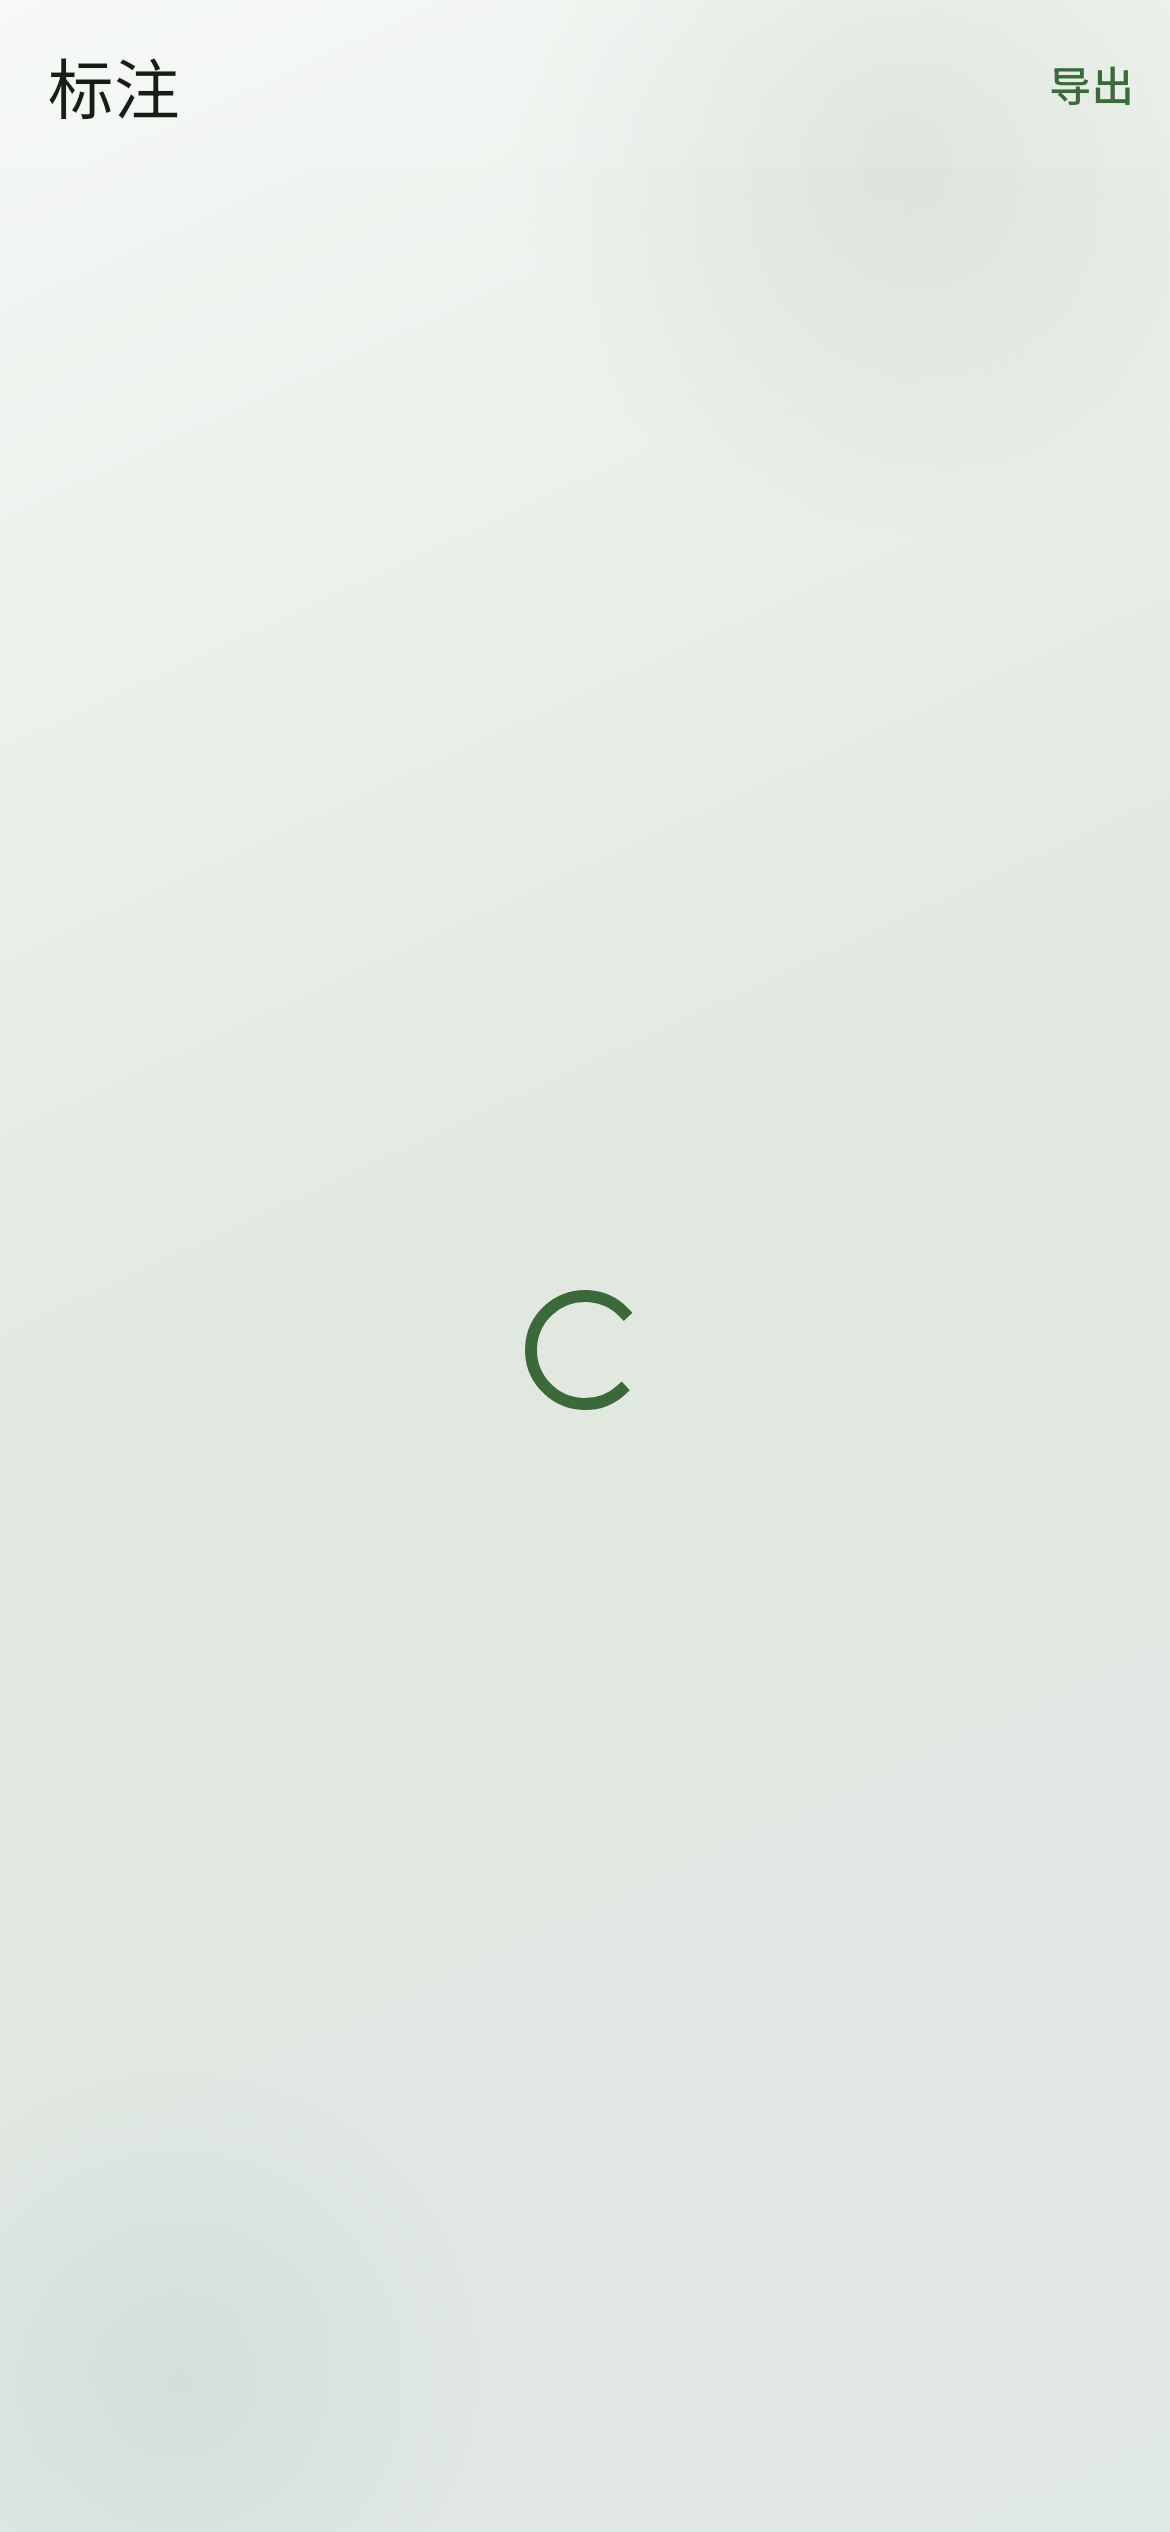
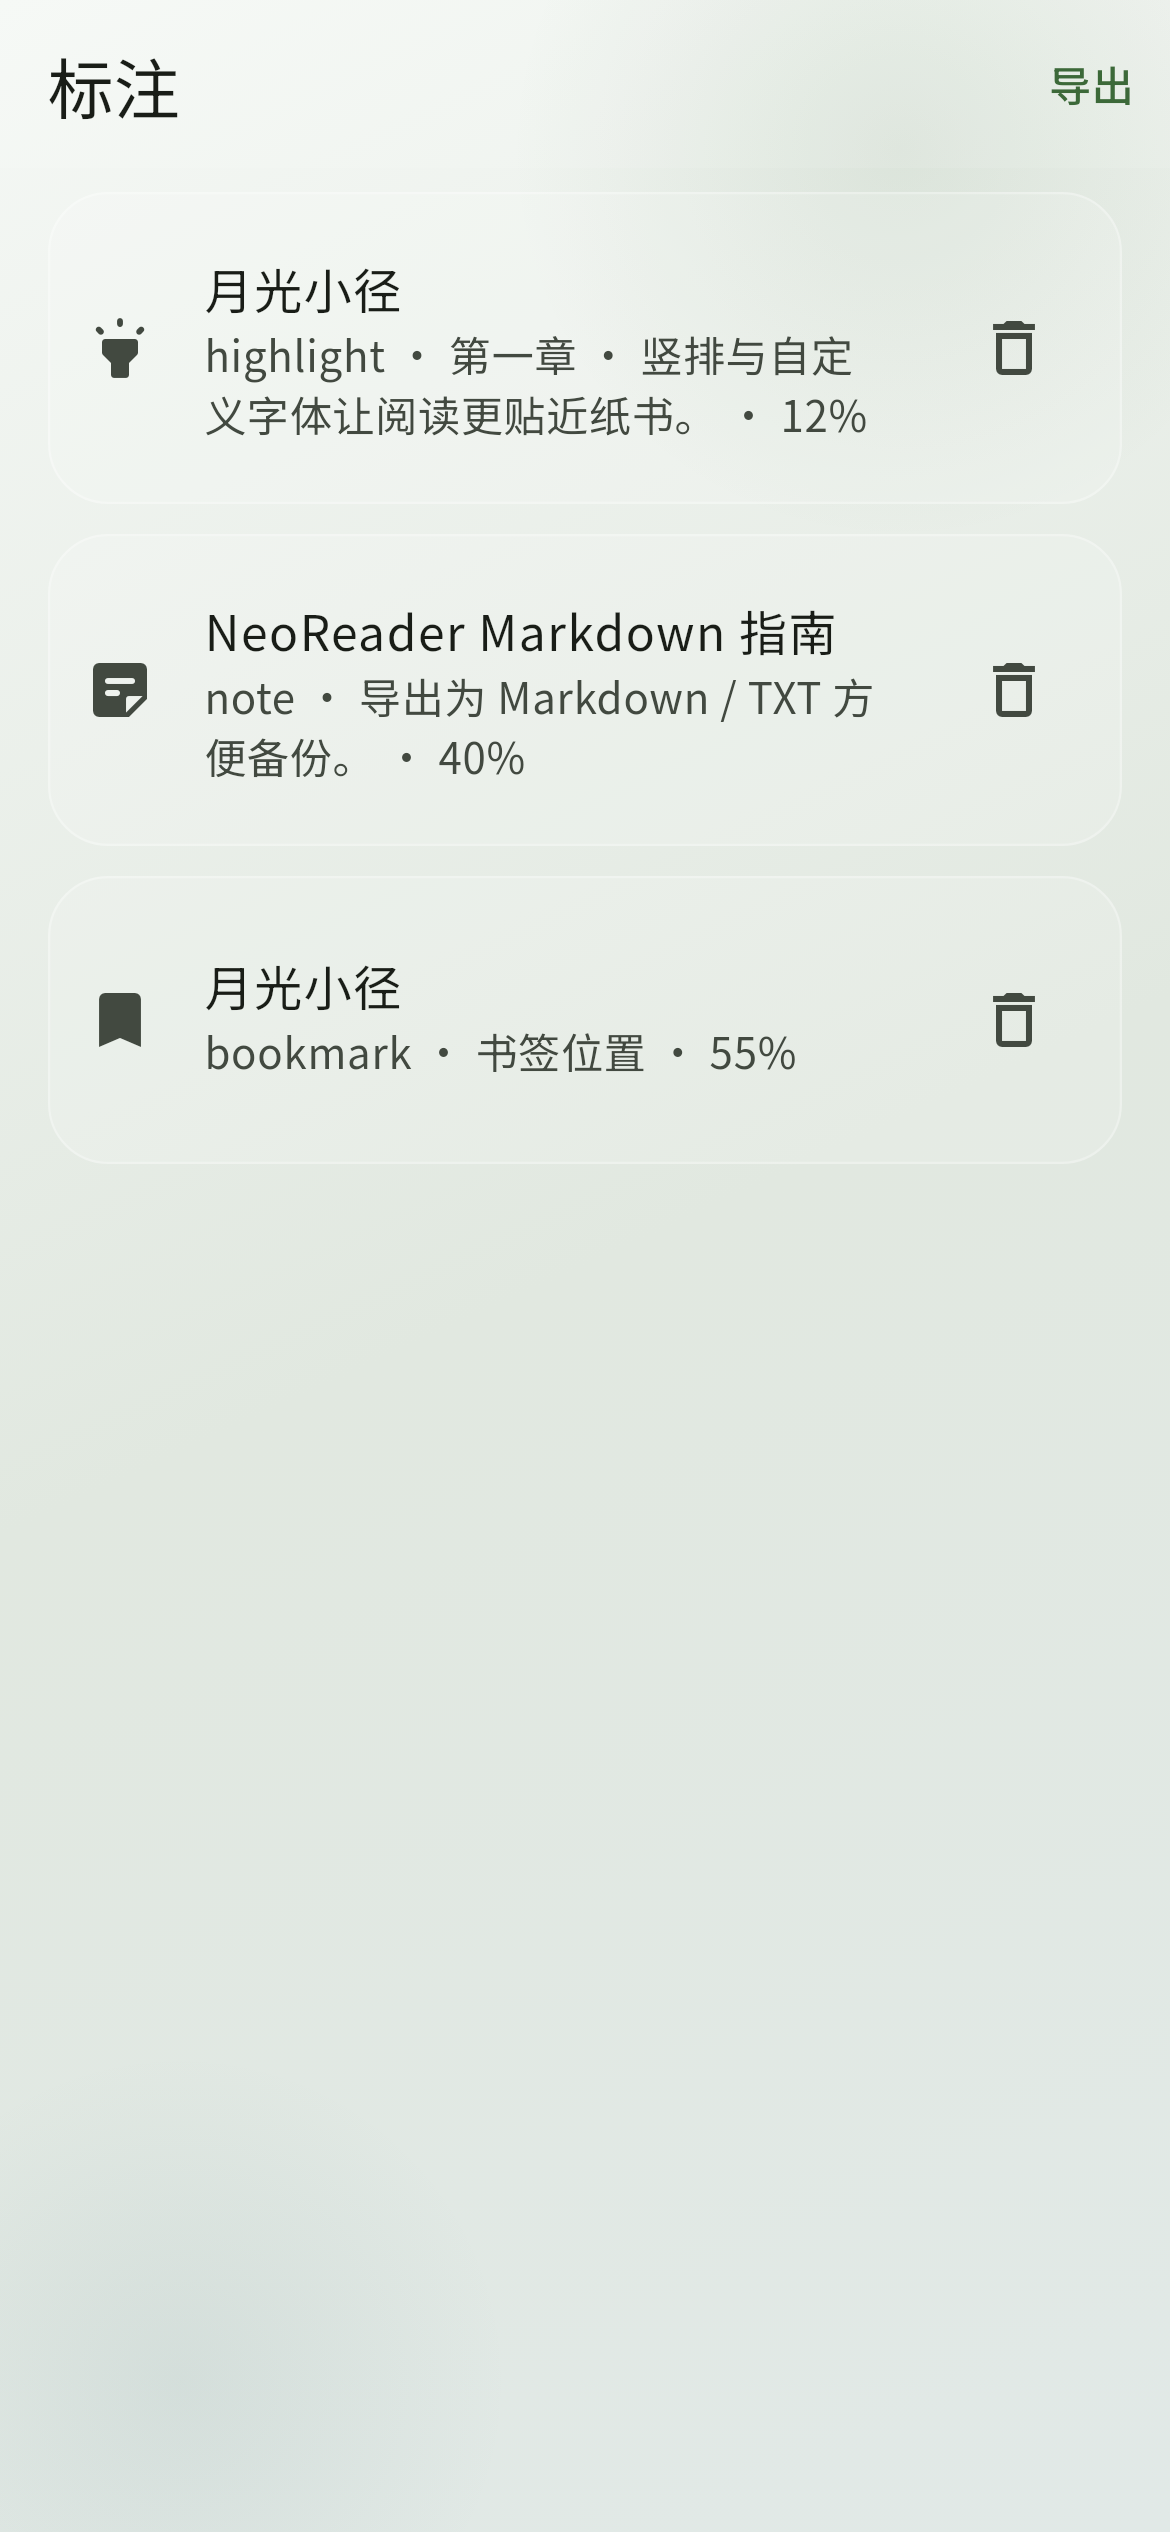
Refresh library/annotations goldens after rebase merge
Stabilize screenshot tests with fixed pump timing and demo
annotations override; regenerate goldens for merged book-details
menu + cover grid UI.

diff --git a/test/ui_screenshots_test.dart b/test/ui_screenshots_test.dart
@@ -7,6 +7,7 @@ import 'package:flutter_test/flutter_test.dart';
 import 'package:neo_reader/core/l10n/app_strings.dart';
 import 'package:neo_reader/core/theme/app_theme.dart';
 import 'package:neo_reader/core/theme/reading_theme.dart';
+import 'package:neo_reader/domain/models/annotation.dart';
 import 'package:neo_reader/domain/models/app_settings.dart';
 import 'package:neo_reader/domain/models/book.dart';
 import 'package:neo_reader/domain/models/reading_stats.dart';
@@ -102,6 +103,35 @@ void main() {
     ),
   ];
 
+
+  final demoAnnotations = [
+    Annotation(
+      id: 'a1',
+      bookId: '1',
+      type: AnnotationType.highlight,
+      createdAt: DateTime(2026, 10, 20),
+      chapter: '第一章',
+      selectedText: '竖排与自定义字体让阅读更贴近纸书。',
+      progress: 0.12,
+    ),
+    Annotation(
+      id: 'a2',
+      bookId: '2',
+      type: AnnotationType.note,
+      createdAt: DateTime(2026, 10, 21),
+      note: '导出为 Markdown / TXT 方便备份。',
+      progress: 0.4,
+    ),
+    Annotation(
+      id: 'a3',
+      bookId: '1',
+      type: AnnotationType.bookmark,
+      createdAt: DateTime(2026, 10, 22),
+      chapter: '书签位置',
+      progress: 0.55,
+    ),
+  ];
+
   Future<void> pumpPhone(
     WidgetTester tester,
     Widget home, {
@@ -128,6 +158,7 @@ void main() {
               last7DaysSeconds: [600, 0, 1200, 900, 1800, 2400, 2520],
             ),
           ),
+          allAnnotationsProvider.overrideWith((ref) async => demoAnnotations),
         ],
         child: MaterialApp(
           debugShowCheckedModeBanner: false,
@@ -145,7 +176,7 @@ void main() {
     );
     await tester.pump();
     // Settle staggered / progress animations for stable goldens.
-    await tester.pumpAndSettle(const Duration(seconds: 2));
+    await tester.pump(const Duration(milliseconds: 600));
   }
 
   testWidgets('chinese labels readable', (tester) async {
